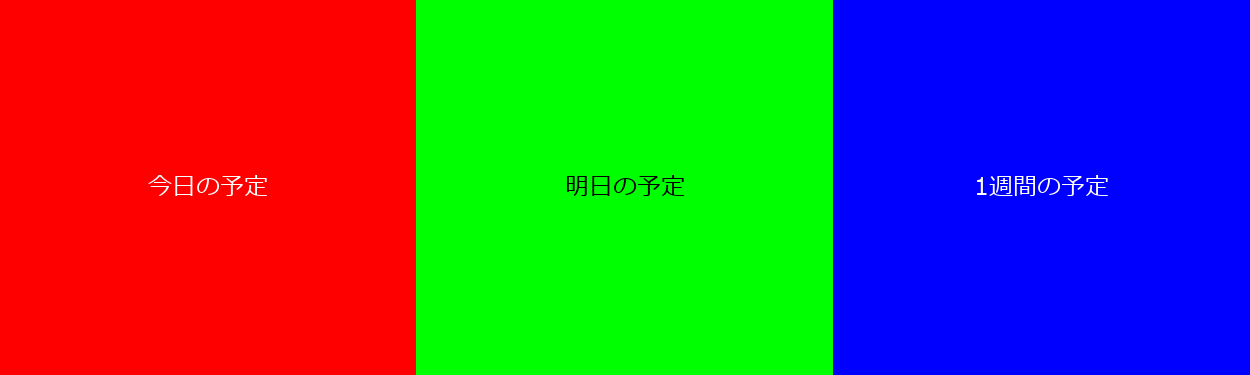
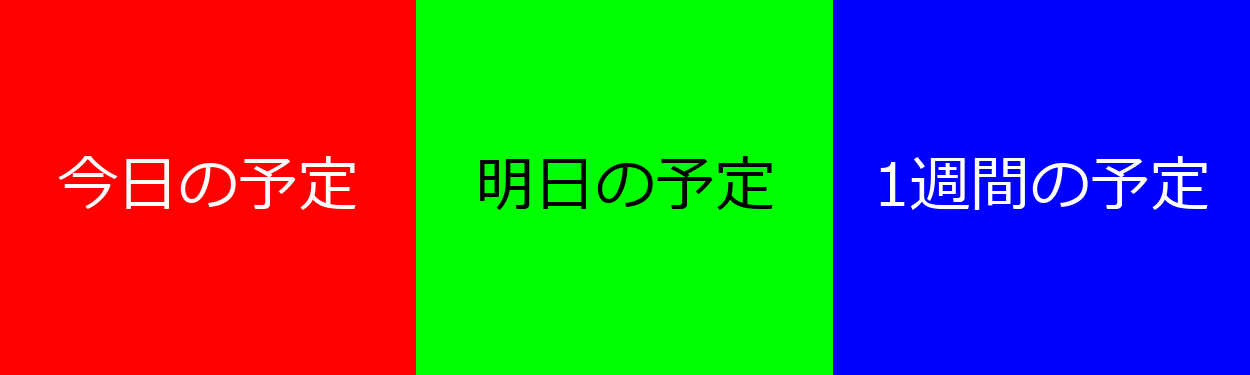
update

Changed region(s): [[0.6864, 0.4107, 0.9672, 0.5573], [0.3744, 0.4107, 0.624, 0.5573], [0.0312, 0.4107, 0.2808, 0.5573]]

diff --git a/create_rich_menu_image.py b/create_rich_menu_image.py
@@ -1,5 +1,4 @@
 import os
-import PIL
 from PIL import Image, ImageDraw, ImageFont
 from common_global import *
 try:
@@ -27,13 +26,9 @@ RICH_MENU_POSITION_ADD_SCHEDULE = (RICH_MENU_SIZE[0]/3, RICH_MENU_SIZE[1]/2)
 RICH_MENU_POSITION_HOW_TO_USE = ((RICH_MENU_SIZE[0]*2)/3, RICH_MENU_SIZE[1]/2)
 
 
-def save_image(img: PIL.Image.Image):
-    if os.path.isdir(IMG_RICH_MENU_PATH):
-        img.save(IMG_RICH_MENU_PATH, quality=95)
-        logger.debug(f'save: {IMG_RICH_MENU_PATH}')
-    else:
-        logger.info("無効なファイルパスのため、画像を保存できませんでした。")
-
+def save_image(img: Image.Image):
+    img.save(IMG_RICH_MENU_PATH, quality=95)
+    logger.debug(f'save: {IMG_RICH_MENU_PATH}')
     return
 
 
@@ -41,7 +36,7 @@ def save_image(img: PIL.Image.Image):
 def image_init():
 
     # ベース画像
-    img = PIL.Image.new("RGB", RICH_MENU_SIZE, (255, 255, 255))
+    img = Image.new("RGB", RICH_MENU_SIZE, (255, 255, 255))
     draw = ImageDraw.Draw(img)
     font = ImageFont.truetype("meiryo.ttc", 20)
 
@@ -80,9 +75,9 @@ def create_rich_menu_image_simple():
     logger.debug("リッチメニューの画像を作成します")
 
     # ベース画像
-    img = PIL.Image.new("RGB", (RICH_MENU_SIZE[0], int(RICH_MENU_SIZE[1]/2)), (255, 255, 255))
+    img = Image.new("RGB", (RICH_MENU_SIZE[0], int(RICH_MENU_SIZE[1]/2)), (255, 255, 255))
     draw = ImageDraw.Draw(img)
-    font = ImageFont.truetype(FONT_FILE_PATH_MEIRYO, 24)
+    font = ImageFont.truetype(FONT_FILE_PATH_MEIRYO, size=60)
 
     # 左上
     draw.rectangle((0, 0, img.width / 3, img.height), fill=(255, 0, 0))
